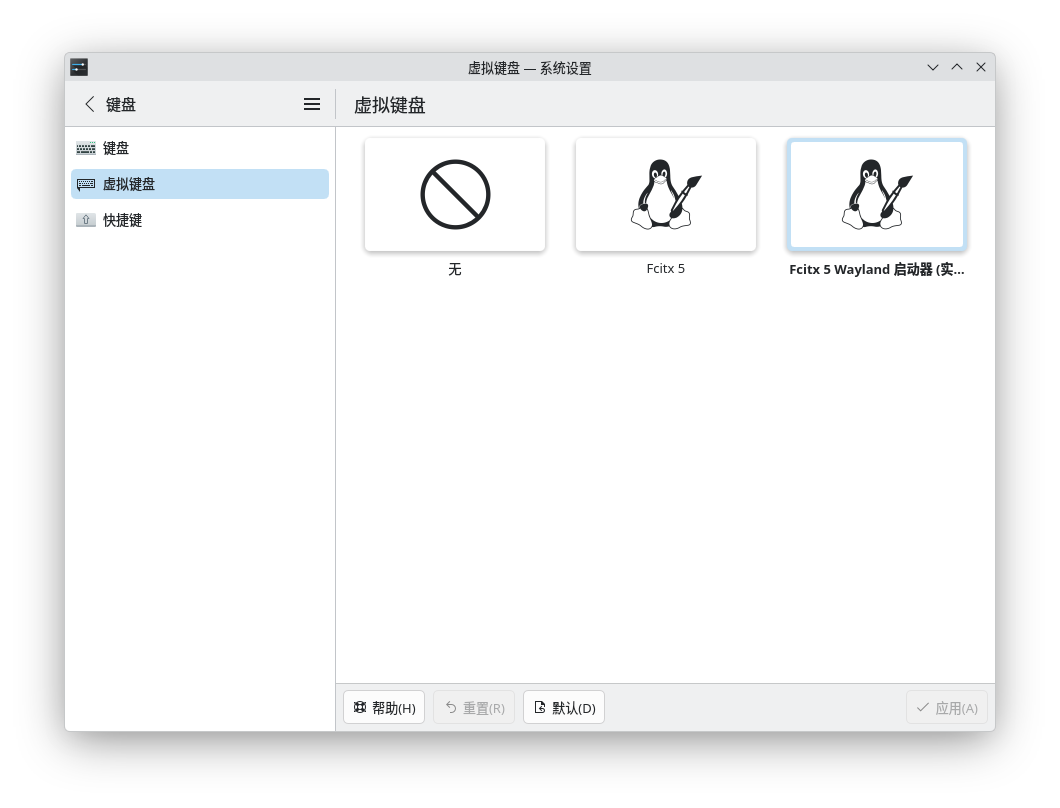
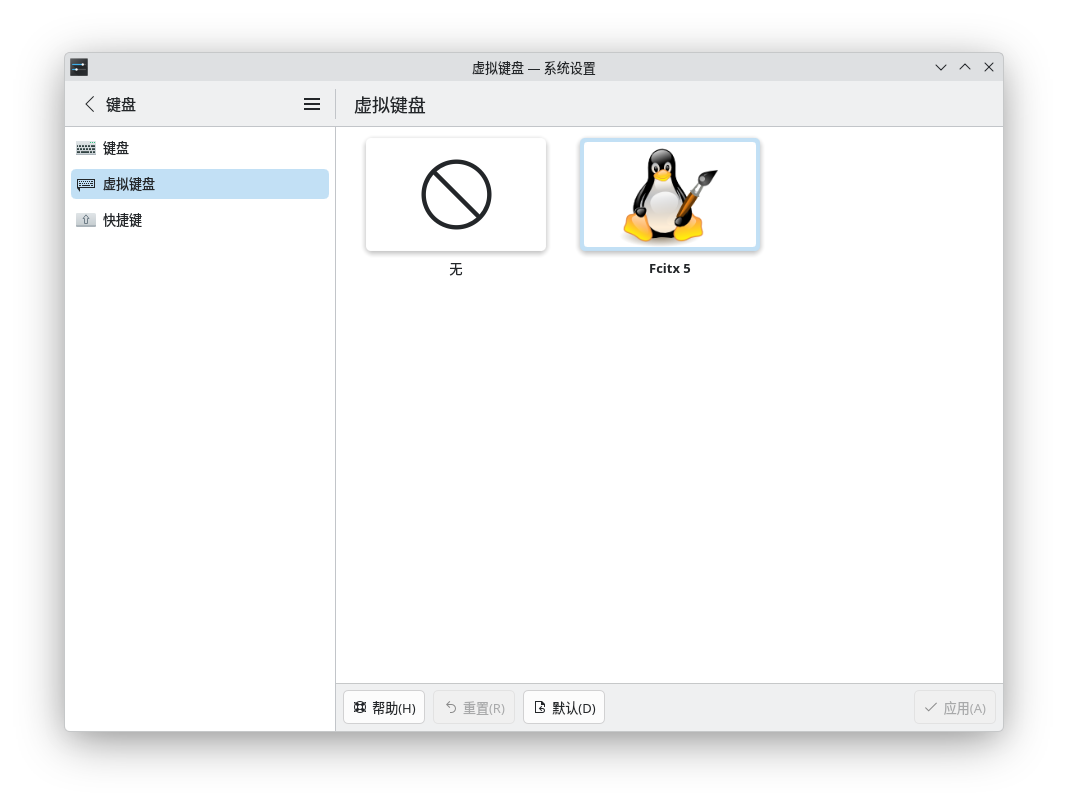
feat: input method

diff --git a/README.md b/README.md
@@ -1,9 +1,9 @@
-# Vanilla OS KDE 中国镜像
+# Vanilla OS Kipferl 中国镜像
 
-用于构建 Vanilla OS KDE 中国镜像的 Containerfile。
+用于构建 Vanilla OS Kipferl 中国镜像的 Containerfile。
 
 > [!CAUTION]
-> KDE 镜像不由 Vanilla OS 官方维护。
+> Kipferl 镜像不由 Vanilla OS 官方维护。
 >
 > 该镜像目前仍处于开发状态，不建议在生产环境中使用。
 
@@ -14,7 +14,7 @@
 ## 所应用的更改
 
 - 预置 GHCR、Docker Hub 与 Flathub 的国内镜像
-- 预置 fcitx5-chinese-addons 与 fcits5-rime 输入法
+- 预置 fcitx5-chinese-addons 与 fcits5-rime 输入法选项
 - 默认使用本地化的 vso-china-image
 
 ## 安装方法
@@ -29,17 +29,17 @@
 
 ### 输入法
 
-安装完毕开机，设置好您的用户，选择您所需要的应用程序，等待 Vanilla OS First Setup 配置完成后，请打开 KDE 设置，找到键盘 => 虚拟键盘。
+安装完毕开机，设置好您的用户，在欢迎中心中选择您所需要的应用程序并安装。在此处，您可以选择您需要的输入法。等待欢迎中心配置完成后，请打开 KDE 设置，找到键盘 => 虚拟键盘。
 
 ![KDE Settings](images/settings.png)
 
-选择 Fcitx 5 Wayland 启动器。
+选择 Fcitx 5。
 
 之后，请搜索并打开 Fcitx 配置，选择右侧的词库/输入方式，并点击左箭头来添加到输入法列表中。
 
 该镜像预装了两种输入法：
 
-- 中文插件（fcitx5-chinese-addons）（附带维基百科词库（fcitx5-pinyin-zhwiki））：开箱即用，无须额外配置
+- 中文插件（fcitx5-chinese-addons）：开箱即用，无须额外配置
 - 中州韵（fcitx5-rime）：智能输入引擎，可以自由安装输入方案
 
 您可以按照自己的需求自行选择。如果您选择中州韵输入法，您可以在输入框中按下 Ctrl+` or F4 来切换输入方案、简繁体等。预装的朙月拼音在大多数情况下已经足够使用，您还可以安装其他输入方案，如雾凇拼音等。
